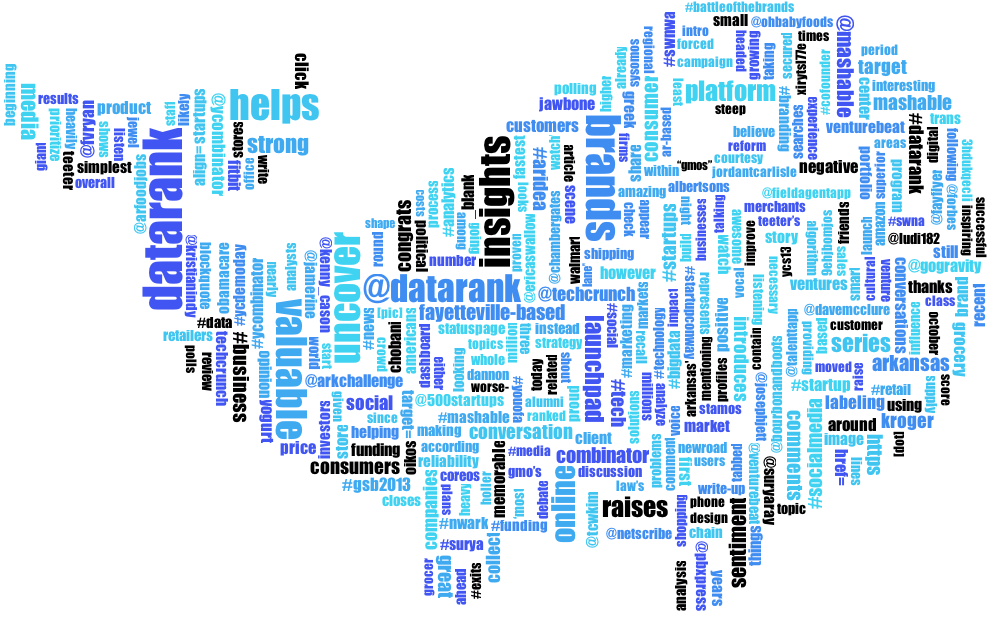
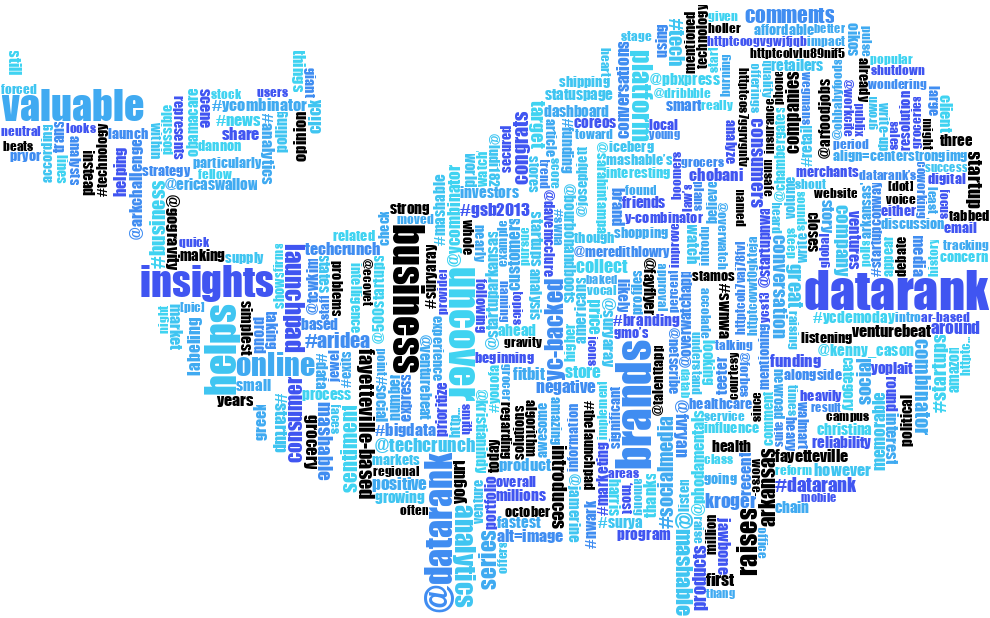
resize image

diff --git a/kumo-core/src/test/java/com/kennycason/kumo/examples/WordCloudITest.java b/kumo-core/src/test/java/com/kennycason/kumo/examples/WordCloudITest.java
@@ -19,7 +19,11 @@ import org.junit.Test;
 import org.slf4j.Logger;
 import org.slf4j.LoggerFactory;
 
+import javax.imageio.ImageIO;
 import java.awt.*;
+import java.awt.image.BufferedImage;
+import java.awt.image.RenderedImage;
+import java.io.File;
 import java.io.FileInputStream;
 import java.io.IOException;
 import java.io.InputStream;
@@ -99,6 +103,25 @@ public class WordCloudITest {
         wordCloud.writeToFile("output/cnn.png");
     }
 
+    public static BufferedImage toBufferedImage(Image img)
+    {
+        if (img instanceof BufferedImage)
+        {
+            return (BufferedImage) img;
+        }
+
+        // Create a buffered image with transparency
+        BufferedImage bimage = new BufferedImage(img.getWidth(null), img.getHeight(null), BufferedImage.TYPE_INT_ARGB);
+
+        // Draw the image on to the buffered image
+        Graphics2D bGr = bimage.createGraphics();
+        bGr.drawImage(img, 0, 0, null);
+        bGr.dispose();
+
+        // Return the buffered image
+        return bimage;
+    }
+
     @Test
     public void whaleImgLargeTest() throws IOException {
         final FrequencyAnalyzer frequencyAnalyzer = new FrequencyAnalyzer();
@@ -107,11 +130,14 @@ public class WordCloudITest {
         frequencyAnalyzer.setStopWords(loadStopWords());
 
         final List<WordFrequency> wordFrequencies = frequencyAnalyzer.load(getInputStream("text/datarank.txt"));
-        final Dimension dimension = new Dimension(990, 618);
+        final Dimension dimension = new Dimension(990 ,618);
         final WordCloud wordCloud = new WordCloud(dimension, CollisionMode.PIXEL_PERFECT);
         wordCloud.setPadding(1);
         wordCloud.setBackgroundColor(Color.WHITE);
+        BufferedImage bufImage = ImageIO.read(getInputStream("backgrounds/whale.png"));
+        ImageIO.write(toBufferedImage( bufImage.getScaledInstance(dimension.width, dimension.height, Image.SCALE_DEFAULT)), "png", new File("F:\\kumo\\kumo-core\\src\\test\\resources\\backgrounds\\test.png"));
         wordCloud.setBackground(new PixelBoundryBackground(getInputStream("backgrounds/whale.png")));
+
         wordCloud.setKumoFont(new KumoFont("Impact", FontWeight.PLAIN));
         wordCloud.setColorPalette(new ColorPalette(new Color(0x4055F1), new Color(0x408DF1), new Color(0x40AAF1), new Color(0x40C5F1), new Color(0x40D3F1), new Color(0x000000)));
         wordCloud.setFontScalar(new SqrtFontScalar(10, 50));
